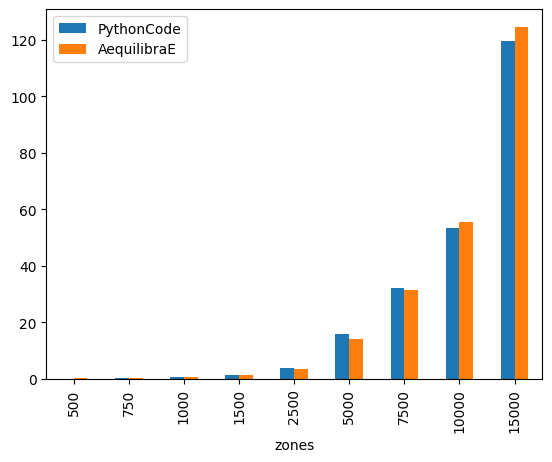
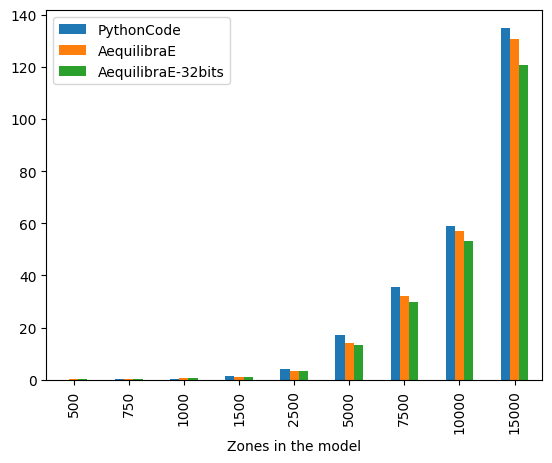
Updates pyarrow version

diff --git a/docs/source/validation_benchmarking/ipf_performance.rst b/docs/source/validation_benchmarking/ipf_performance.rst
@@ -1,17 +1,25 @@
 IPF Performance
 ===============
 
-It is quite common to have zones with different growth rates. To improve obtaining
-a trip matrix, which satisfies both trip-end constraints, we can use iterative methods,
-such as the iterative proportional fitting (IPF). In this section, we compare the 
+The use of iterative proportional fitting (IPF) is quite common on processes
+involving doubly-constraining matrices, such as synthetic gravity models and
+fractional split models (aggregate destination-choice models).
+
+As this is a commonly used algorithm, we have implemented it in Cython, where
+we can take full advantage of multi-core CPUs. We have also implemented the ability
+of using both 32-bit and 64-bit floating-point seed matrices, which has direct impact
+on cache use and consequently computational performance.
+
+
+In this section, we compare the
 runtime of AequilibraE's current implementation of IPF, 
-with a general IPF algorithm, available `here <https://github.com/joshchea/python-tdm/blob/master/scripts/CalcDistribution.py>`_.
+with a general IPF algorithm written in pure Python, available `here <https://github.com/joshchea/python-tdm/blob/master/scripts/CalcDistribution.py>`_.
 
 The figure below compares AequilibraE's IPF runtime with one core with the benchmark Python
 code. From the figure below, we can notice that the runtimes were practically the same for the
-instances with 1,000 zones or less. As the number of zones increases, AequilibraE demonstrated to be faster
-than the benchmark python code in instances with 1,000 < zones < 10,000, but it was a
-slower than the benchmark for the larger instances with 10,000 and 15,000 zones. It's worth mentioning that
+instances with 1,000 zones or less. As the number of zones increases, AequilibraE demonstrated to be slightly faster
+than the benchmark python code, while applying IPF to a 32-bit NumPy array (np.float32) was significantly faster.
+It's worth mentioning that
 the user can set up a threshold for AequilibraE's IPF function, as well as use more than one
 core to speed up the fitting process.
 
@@ -19,17 +27,31 @@ core to speed up the fitting process.
     :align: center
     :alt: AequilibraE's IPF runtime
 
-As IPF is an embarrassingly-parallel workload, we have implemented our version in Cython, taking full advantage
-of parallelization and observing the impact of array orientation in memory. AequilibraE's
-IPF allows the user to choose how many cores are used for IPF in order to speed up the fitting process, which
-is extremely useful when handling models with lots of traffic zones.
+As IPF is an embarrassingly-parallel workload, it is more relevant to look at the performance of the
+AequilibraE implementations, starting by comparing the implementation performance for inputs in 32 vs 64
+bits using 32 threads.
 
-As we can see, instances with more zones benefited the most from the power of multi-processing
-speeding up the runtime in barely five times using five cores.
+.. image:: ../images/ipf_runtime_32vs64bits.png
+    :align: center
+    :alt: AequilibraE's IPF runtime 32 vs 64 bits
+
+The difference is staggering, with the 32-bit implementation being twice as fast as the 64-bit one for large matrices.
+It is also worth noting that differences in results between the outputs between these two versions are incredibly
+small (RMSE < 1.1e-10), and therefore unlikely to be relevant in most applications.
+
+We can also look at performance gain across matrix sizes and number of cores, and it becomes clear
+that the 32-bit version scales significantly better than its 64-bit counterpart, showing significant performance
+gains up to 16 threads, while the latter stops showing much improvement beyond 8 threads, likely due to limitations
+on cache size.
 
 .. image:: ../images/ipf_runtime_vs_num_cores.png
-    :align: center
-    :alt: number of cores used in IPF
+    :align: left
+    :alt: number of cores used in IPF for 64 bit matrices
+
+.. image:: ../images/ipf_runtime_vs_num_cores32bits.png
+    :align: right
+    :alt: number of cores used in IPF for 32 bit matrices
+
 
 These tests were run on a Threadripper 3970x (released in 2019) workstation with 32 cores (64 threads) @ 3.7 GHz
 and 256 Gb of RAM. With 32 cores in use, performing IPF took 0.105s on a 10,000 zones matrix,
@@ -84,39 +106,83 @@ and 0.224 seconds on a 15,000 matrix. The code is provided below for convenience
 
     # %%
     mat_sizes = [500, 750, 1000, 1500, 2500, 5000, 7500, 10000, 15000
-    cores_to_use = [1, 2, 3, 4, 6, 8, 10, 12, 16, 20, 24, 28, 32]
+    cores_to_use = [1, 2, 4, 8, 16, 32]
 
     # %%
     #Benchmarking
     bench_data = []
     cores = 1
-    repetitions = 3
+    repetitions = 5
     iterations = 100
     for zones in mat_sizes:
-        for repeat in tqdm(range(repetitions),f"Zone size: {zones}"):
+        for repeat in tqdm(range(repetitions), f"Repetitions for zone size {zones}"):
             mat1 = np.random.rand(zones, zones)
             target_prod = np.random.rand(zones)
             target_atra = np.random.rand(zones)
             target_atra *= target_prod.sum()/target_atra.sum()
 
             aeq_mat = deepcopy(mat1)
-            t = perf_counter()
             # We use a nonsensical negative tolerance to force it to run all iterations
-            ipf_core(aeq_mat, target_prod, target_atra, max_iterations=iterations, tolerance=-5, cores=cores)
+            # and set warning for non-convergence to false, as we know it won't converge
+            t = perf_counter()
+            ipf_core(aeq_mat, target_prod, target_atra, max_iterations=iterations, tolerance=-5, cores=cores, warn=False)
             aeqt = perf_counter() - t
+
+            aeq_mat32 = np.array(mat1, np.float32)
+            # We now run the same thing with a seed matrix in single-precision (float 32 bits) instead of double as above (64 bits)
+            t = perf_counter()
+            ipf_core(aeq_mat32, target_prod, target_atra, max_iterations=iterations, tolerance=-5, cores=cores, warn=False)
+            aeqt2 = perf_counter() - t
 
             bc_mat = deepcopy(mat1)
             t = perf_counter()
             x = CalcFratar(target_prod, target_atra, bc_mat, maxIter=iterations)
 
-            bench_data.append([zones, perf_counter() - t, aeqt])
+            bench_data.append([zones, perf_counter() - t, aeqt, aeqt2])
 
     # %%
-    bench_df = pd.DataFrame(bench_data, columns=["zones", "PythonCode", "AequilibraE"])
-    bench_df.groupby(["zones"]).mean().plot.bar()
+    bench_df = pd.DataFrame(bench_data, columns=["Zones in the model", "PythonCode", "AequilibraE", "AequilibraE-32bits"])
+    bench_df.groupby(["Zones in the model"]).mean().plot.bar()
 
     # %%
-    bench_df.groupby(["zones"]).mean()
+    bench_df.groupby(["Zones in the model"]).mean()
+
+    # %%
+    #Benchmarking 32 threads
+    bench_data_parallel = []
+    cores = 32
+    repetitions = 5
+    iterations = 100
+    for zones in mat_sizes:
+        for repeat in tqdm(range(repetitions), f"Repetitions for zone size {zones}"):
+            mat1 = np.random.rand(zones, zones)
+            target_prod = np.random.rand(zones)
+            target_atra = np.random.rand(zones)
+            target_atra *= target_prod.sum()/target_atra.sum()
+
+            aeq_mat = deepcopy(mat1)
+            # We use a nonsensical negative tolerance to force it to run all iterations
+            # and set warning for non-convergence to false, as we know it won't converge
+            t = perf_counter()
+            ipf_core(aeq_mat, target_prod, target_atra, max_iterations=iterations, tolerance=-5, cores=cores, warn=False)
+            aeqt = perf_counter() - t
+
+            aeq_mat32 = np.array(mat1, np.float32)
+            # We now run the same thing with a seed matrix in single-precision (float 32 bits) instead of double as above (64 bits)
+            t = perf_counter()
+            ipf_core(aeq_mat32, target_prod, target_atra, max_iterations=iterations, tolerance=-5, cores=cores, warn=False)
+            aeqt2 = perf_counter() - t
+
+            rmse = np.sqrt(np.mean((aeq_mat-aeq_mat32)**2))
+
+            bench_data_parallel.append([zones, aeqt, aeqt2, rmse])
+
+    # %%
+    bench_df_parallel = pd.DataFrame(bench_data_parallel, columns=["Zones in the model", "AequilibraE", "AequilibraE-32bits", "rmse"])
+    bench_df_parallel.groupby(["Zones in the model"]).mean()[[ "AequilibraE", "AequilibraE-32bits"]].plot.bar()
+
+    # %%
+    bench_df_parallel.groupby(["Zones in the model"]).mean()
 
     # %%
     #Benchmarking
